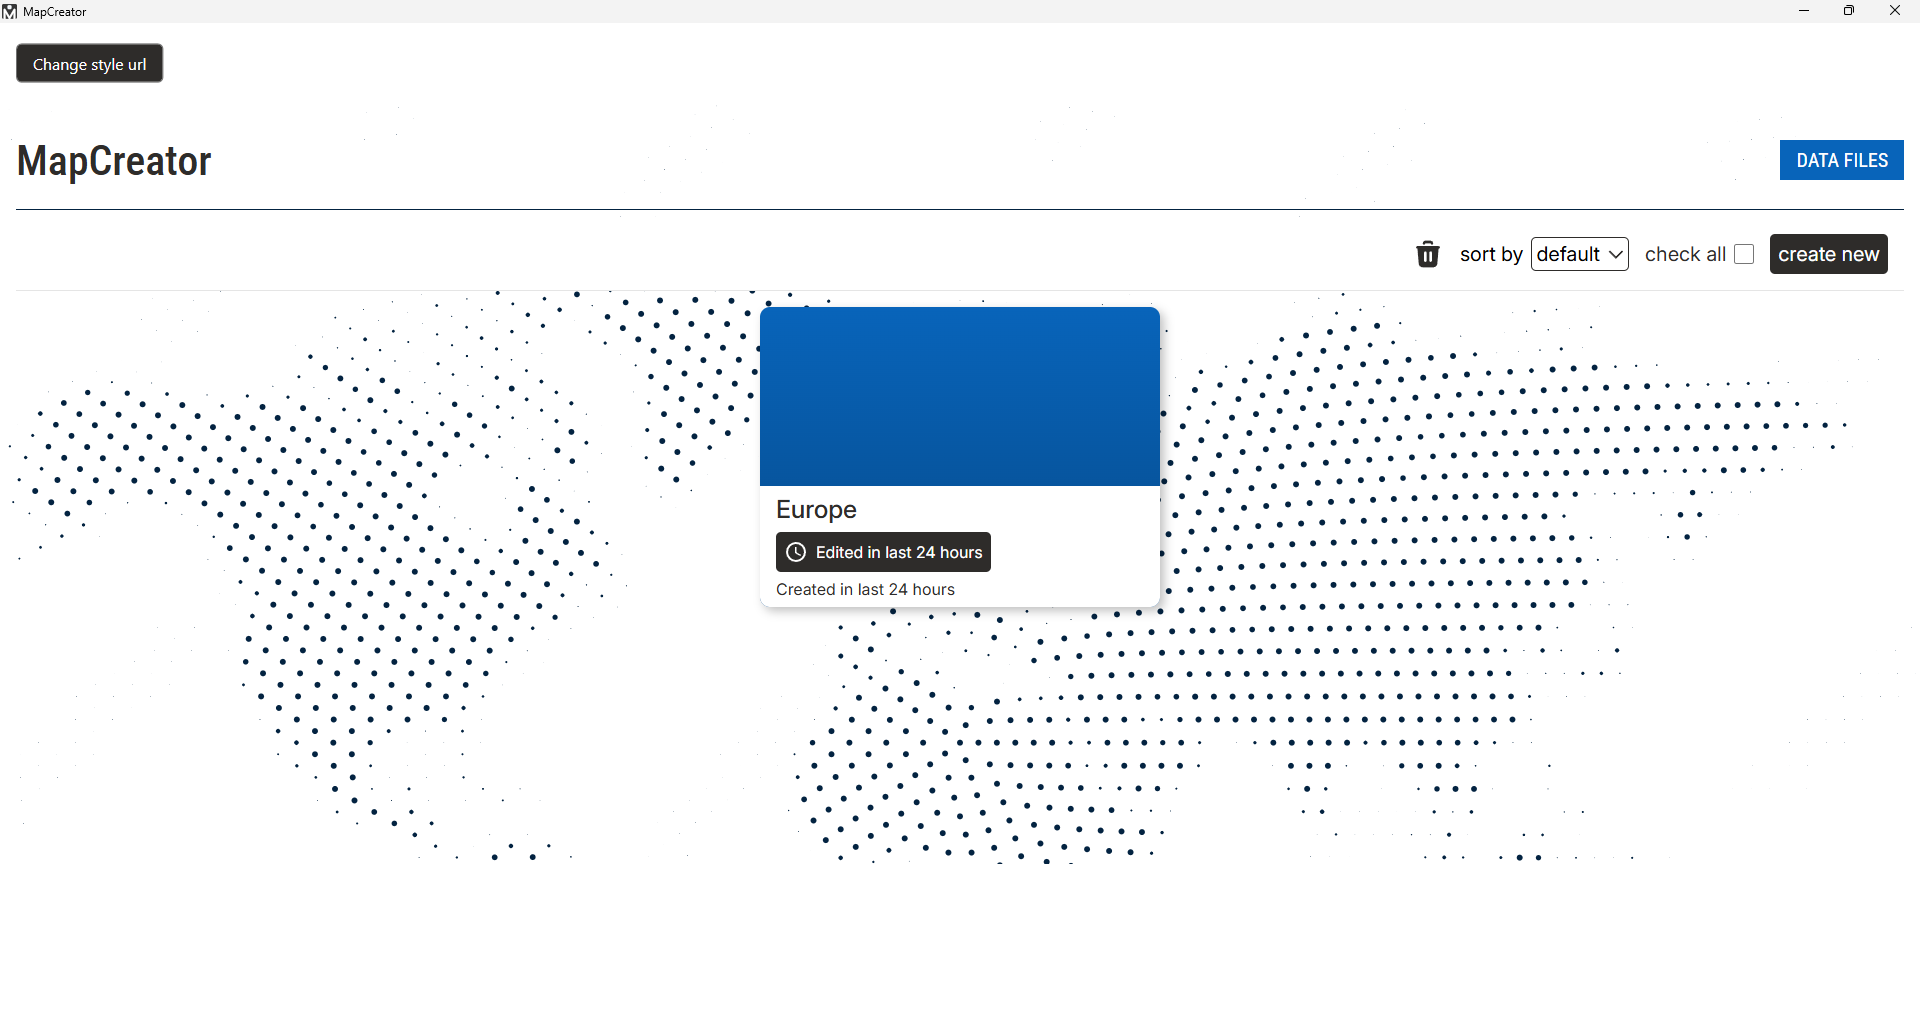
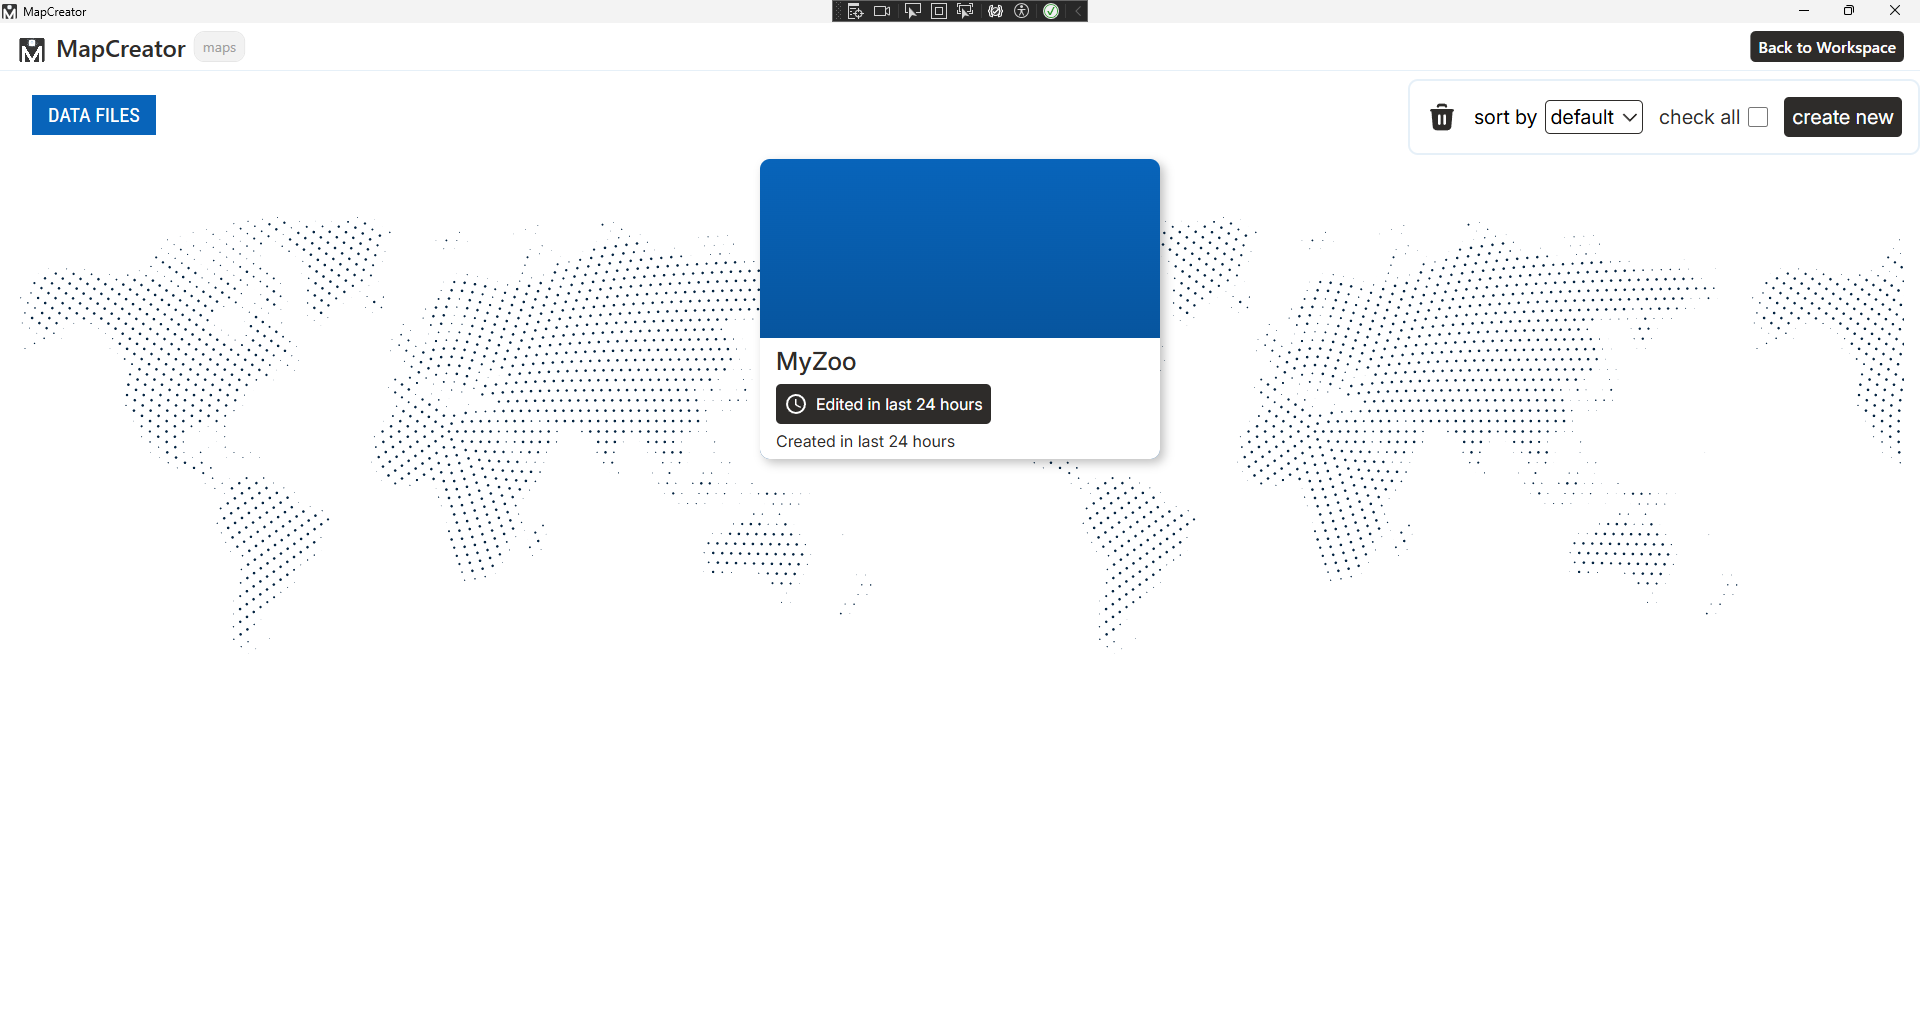
[Modified / Add] Readme update, new packages package -> types for html2pdf

diff --git a/README.md b/README.md
@@ -2,7 +2,7 @@
 ### Open source web-based map editor. The application lets you draw lines, polygons and place text with icons as markers. You can also export your map to PDF using your own HTML template. 
 ## Preview
 ![WelcomePage](assets/screenshots/welcomePage.png)
-![SaveStylePage](assets/screenshots/saveStylePage.png)
+![Workspace](assets/screenshots/workspace.png)
 ![MapsListPage](assets/screenshots/mapsListPage.png)
 ![DataFilesPage](assets/screenshots/dataFilesPage.png)
 ![TemplatePreview](assets/screenshots/templatePreview.png)
@@ -52,8 +52,8 @@ dotnet run
     <div class="template" style="width: 793px; height: 1122px; padding: 20px;">
         <!--id "map-container" is required if you want to display the map -->
         <div id="map-container" style="width: 500px; height: 300px; padding: 10px; display: flex; justify-content: center; align-items: center;"></div>
-        <!--class "qrcode-container" is required if you want to display the qr code for google map -->
-        <div class="qrcode-container" style="width: 200px; height: 200px; padding: 10px;"></div>
+        <!--id "qrcode" is required if you want to display the qr code for google map -->
+        <div id="qrcode" style="width: 200px; height: 200px; padding: 10px;"></div>
         <div class="description-container" style="width: 500px; height: max-content; padding: 10px;">
             <h3>Description</h3>
             <!--All of textarea and inputs when template is loaded gets listeners to update the map description values so data can be saved.-->